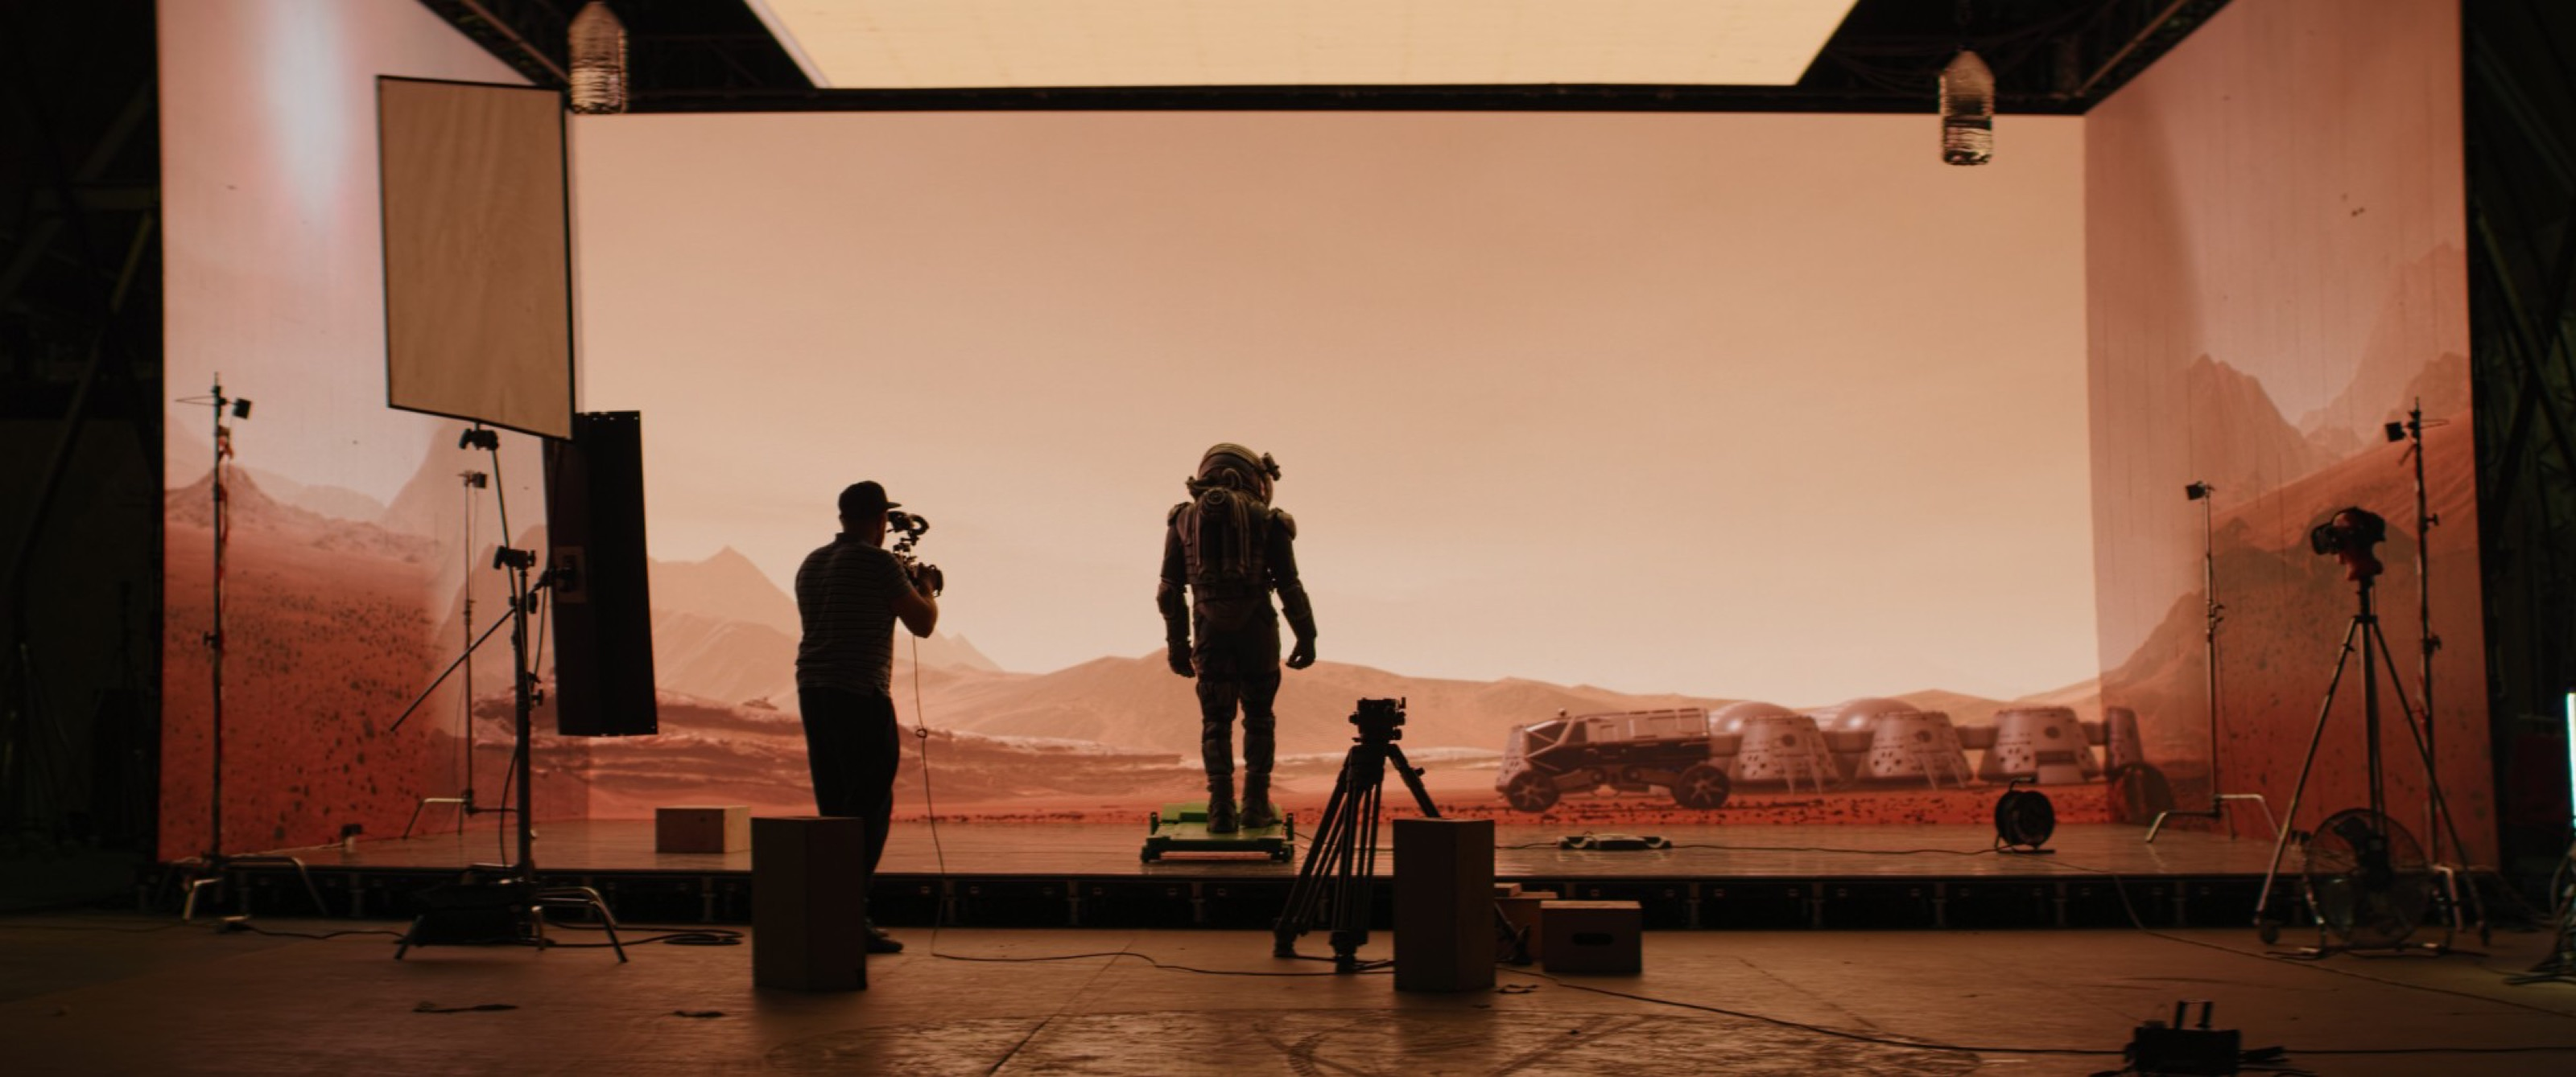
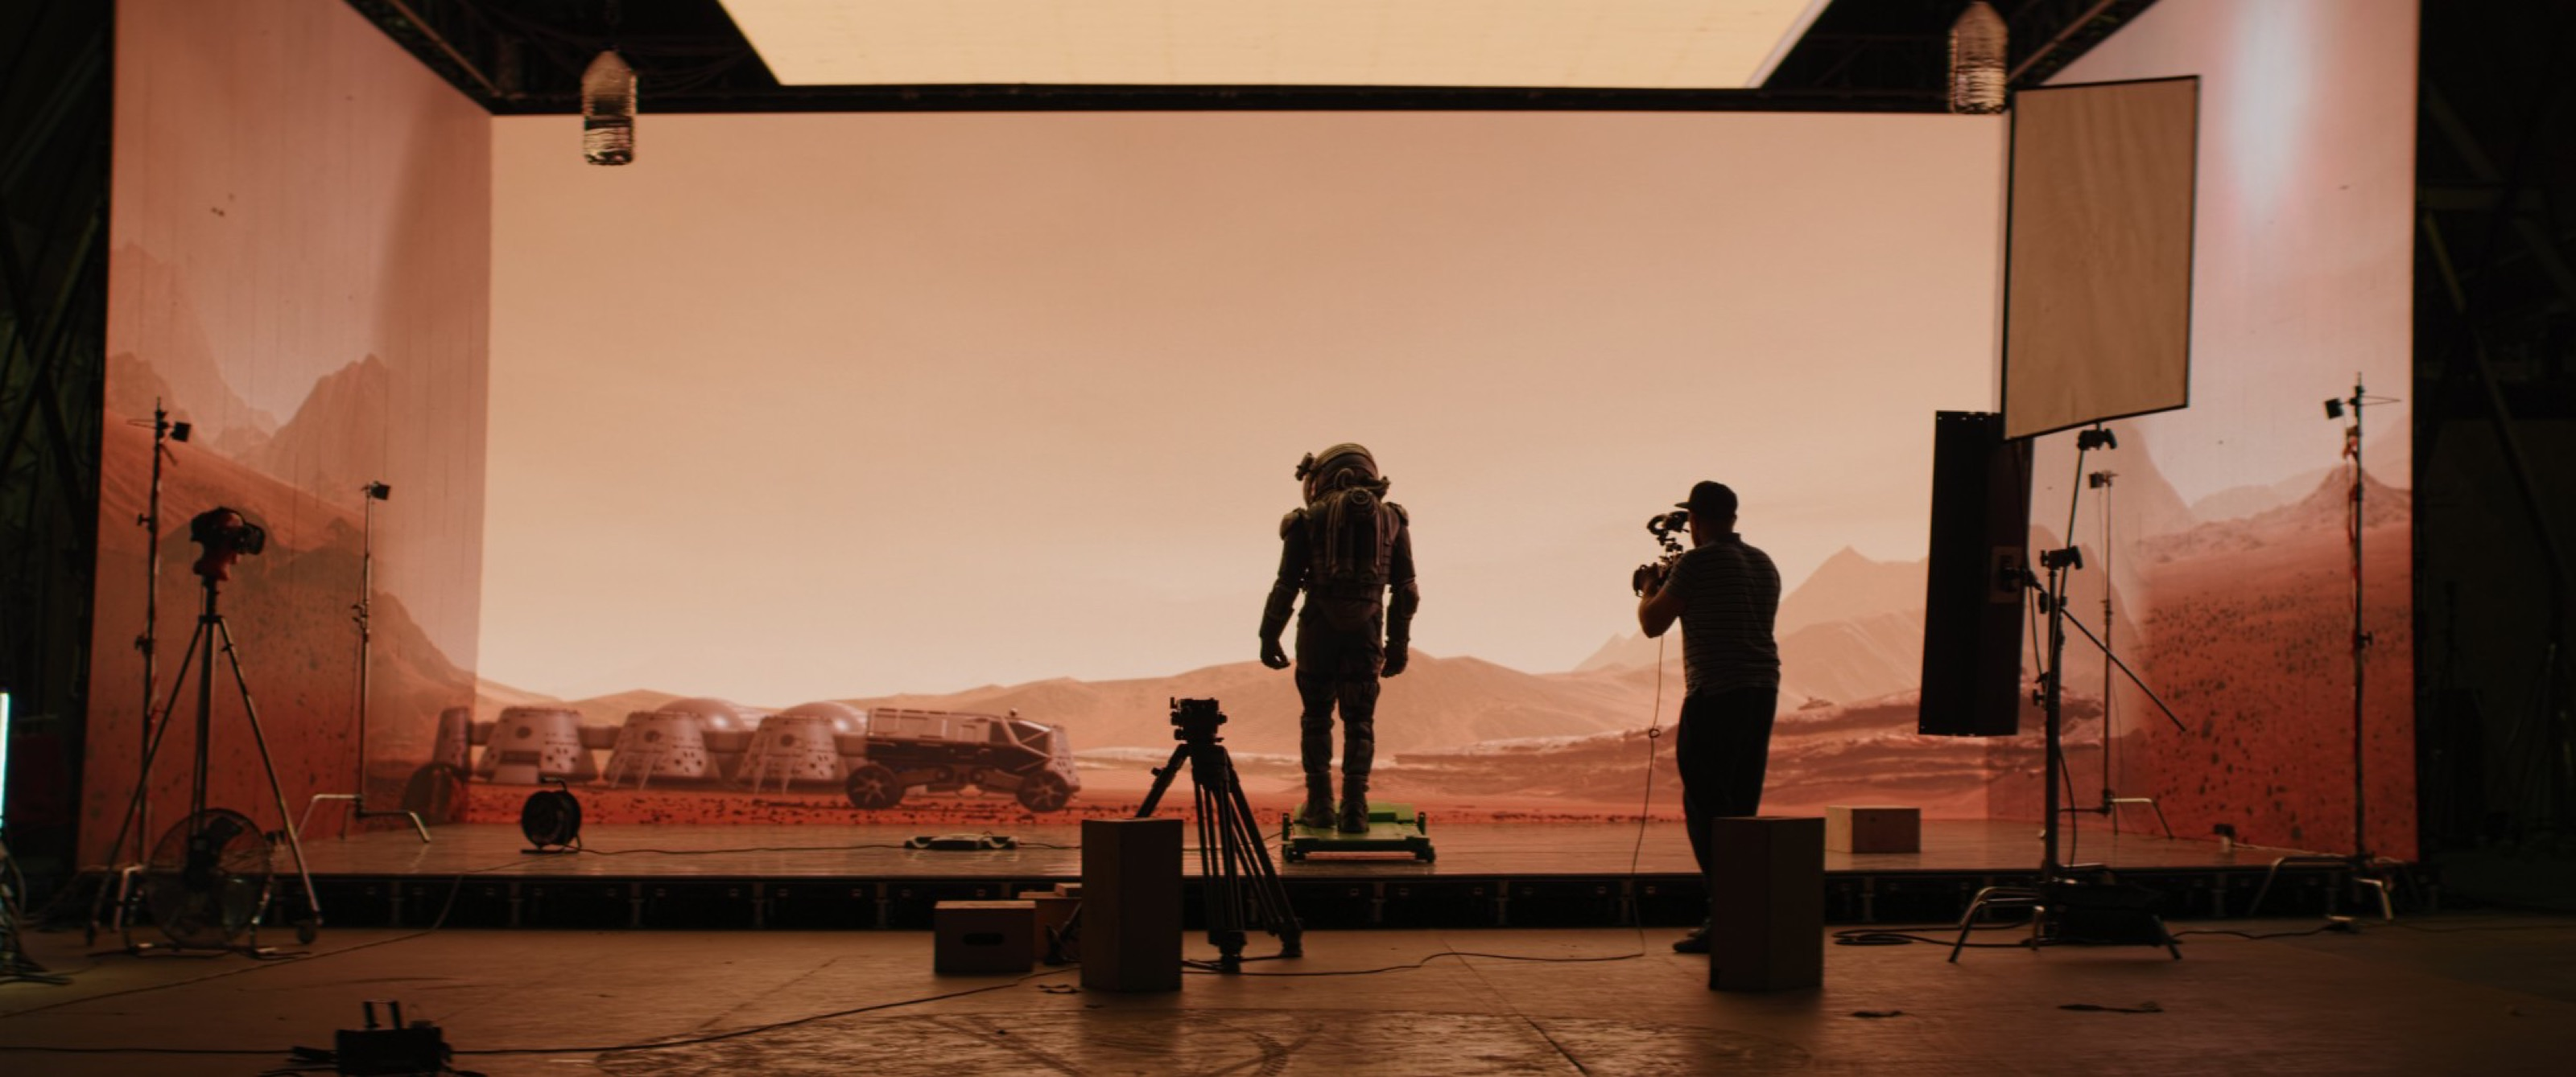
Flip the Mars sign-in photo; phone project screens follow the laptop design
Sign-in: mirror login-bg-mars.jpg horizontally (lossless JPEG flip, like the
set photo before it) and mirror its crop positions (75% -> 25% on desktop,
42% -> 58% on phone) so the same part of the photo shows.

Phone Projects list: each project is a folder card like the laptop's. Status
pill and shoot date, the name in spaced caps, client and location, a big
orange item count (with a unique count when it differs), a 5-column grid of
white thumbnail tiles split by 1px black rules, and a Kit list / Open footer.
The dot texture is on these cards only.

Phone project page: ink header with the title, fact grid (client, shoot,
location, orange Items and Unique) and full-width status blocks, as on the
laptop. The kit list, steppers, Add gear and Delete are unchanged.

diff --git a/studio-mobile.jsx b/studio-mobile.jsx
@@ -371,6 +371,64 @@
   }
 
   // ─── Projects ───────────────────────────────────────────────────────
+  // One project as a folder card, same as the laptop: status and shoot date,
+  // the name in spaced caps, a big orange item count, then a grid of white
+  // thumbnail tiles split by 1px black rules. The dot texture is on these
+  // cards only.
+  function ProjectFolder({ p, rows, onOpen }) {
+    const loaded = !!rows;
+    const list = rows || [];
+    const qty = totalQty(list);
+    const n = list.length;
+    const cells = n > 10 ? 15 : 10;
+    const cap = n > cells ? cells - 1 : cells;
+    const tag = p.status === 'active'
+      ? { background: T.orange, color: '#fff', border: `1px solid ${T.orange}` }
+      : { background: 'rgba(255,255,255,0.12)', color: '#fff', border: '1px solid rgba(255,255,255,0.28)' };
+    const meta = [p.client, p.location].filter(Boolean).join(' · ');
+    const tiles = [];
+    for (let i = 0; i < cells; i++) {
+      const pi = list[i];
+      if (i < cap && pi) {
+        tiles.push(
+          <div key={pi.id || i} style={folderTile}>
+            <img src={window.GEAR.itemImage(pi)} loading="lazy" alt=""
+              onError={(e) => { e.currentTarget.src = window.GEAR_PLACEHOLDER(pi.category); }}
+              style={{ position: 'absolute', inset: 4, width: 'calc(100% - 8px)', height: 'calc(100% - 8px)', objectFit: 'contain' }} />
+            {pi.qty > 1 && <div style={{ position: 'absolute', bottom: 0, right: 0, background: T.orange, color: '#fff', fontSize: 10, padding: '1px 5px', fontFamily: S.mono }}>{pi.qty}</div>}
+          </div>
+        );
+      } else if (i === cells - 1 && n > cells) {
+        tiles.push(<div key="more" style={{ ...folderTile, background: T.paperLight, display: 'flex', alignItems: 'center', justifyContent: 'center', fontFamily: S.mono, fontSize: 13, color: T.textMute }}>+{n - cap}</div>);
+      } else {
+        tiles.push(<div key={'e' + i} style={{ ...folderTile, background: '#000' }} />);
+      }
+    }
+    return (
+      <div onClick={onOpen} role="button" tabIndex={0} aria-label={`Open ${p.name}`}
+           onKeyDown={(e) => { if (e.key === 'Enter' || e.key === ' ') { e.preventDefault(); onOpen(); } }}
+           style={folderCard}>
+        <div style={{ padding: '14px 14px 14px' }}>
+          <div style={{ display: 'flex', alignItems: 'center', justifyContent: 'space-between', gap: 10 }}>
+            <span style={{ ...S.pill('transparent', '#fff'), ...tag }}>{p.status}</span>
+            {p.shoot && <span style={{ fontFamily: S.mono, fontSize: 10, letterSpacing: '0.1em', textTransform: 'uppercase', color: 'rgba(255,255,255,0.5)', textAlign: 'right' }}>{p.shoot}</span>}
+          </div>
+          <div style={{ fontFamily: S.mono, fontSize: 14, letterSpacing: '0.14em', textTransform: 'uppercase', lineHeight: 1.35, marginTop: 12, color: 'rgba(255,255,255,0.88)', wordBreak: 'break-word' }}>{p.name}</div>
+          {meta && <div style={{ fontSize: 12.5, color: 'rgba(255,255,255,0.5)', marginTop: 2 }}>{meta}</div>}
+          <div style={{ display: 'flex', alignItems: 'baseline', gap: 10, marginTop: 10, fontFamily: S.mono }}>
+            <span style={{ fontSize: 40, lineHeight: 1, color: T.orange }}>{loaded ? qty : '…'}</span>
+            <span style={{ fontSize: 12, letterSpacing: '0.14em', textTransform: 'uppercase', color: 'rgba(255,255,255,0.6)' }}>Item{qty === 1 ? '' : 's'}</span>
+            {loaded && n !== qty && <span style={{ marginLeft: 'auto', fontSize: 10, letterSpacing: '0.1em', textTransform: 'uppercase', color: 'rgba(255,255,255,0.4)' }}>{n} unique</span>}
+          </div>
+        </div>
+        <div style={{ display: 'grid', gridTemplateColumns: 'repeat(5, 1fr)', gap: 1, background: '#000', borderTop: '1px solid #000', borderBottom: '1px solid #000' }}>{tiles}</div>
+        <div style={{ display: 'flex', alignItems: 'center', justifyContent: 'space-between', height: 34, padding: '0 14px', fontFamily: S.mono, fontSize: 10, letterSpacing: '0.1em', textTransform: 'uppercase', color: '#8a827b' }}>
+          <span>Kit list</span><span>Open ›</span>
+        </div>
+      </div>
+    );
+  }
+
   function ProjectsScreen({ projects, projectItems, billing, onOpen, onNew }) {
     const limit = billing && billing.max_projects != null ? billing.max_projects : null;
     return (
@@ -386,29 +444,8 @@
             <button style={{ ...S.btnP, padding: 12 }} onClick={onNew}>Create a project</button>
           </Empty>
         ) : (
-          <div style={{ display: 'flex', flexDirection: 'column', gap: 8, padding: '0 10px 16px' }}>
-            {projects.map(p => {
-              const rows = projectItems[p.id];
-              const c = window.GEAR.statusColor[p.status] || window.GEAR.statusColor.planning;
-              return (
-                <div key={p.id} onClick={() => onOpen(p.id)} style={{ background: '#fff', border: `1px solid ${T.ink}`, padding: 12, cursor: 'pointer' }}>
-                  <div style={{ display: 'flex', justifyContent: 'space-between', alignItems: 'center', gap: 10, marginBottom: 8 }}>
-                    <span style={S.pill(c.bg, c.fg)}>{p.status}</span>
-                    <span style={{ fontFamily: S.mono, fontSize: 11, color: T.textMute }}>{rows ? `${totalQty(rows)} item${totalQty(rows) === 1 ? '' : 's'}` : '…'}</span>
-                  </div>
-                  <div style={{ fontFamily: S.mono, fontSize: 19, fontWeight: 600, letterSpacing: '-0.02em', lineHeight: 1.2, wordBreak: 'break-word' }}>{p.name}</div>
-                  {[p.client, p.shoot, p.location].some(Boolean) && (
-                    <div style={{ fontSize: 12, color: T.textMute, marginTop: 4 }}>{[p.client, p.shoot, p.location].filter(Boolean).join(' · ')}</div>
-                  )}
-                  {rows && rows.length > 0 && (
-                    <div style={{ display: 'flex', gap: 4, marginTop: 12 }}>
-                      {rows.slice(0, 6).map(pi => <Thumb key={pi.id} it={pi} size={40} />)}
-                      {rows.length > 6 && <div style={{ ...qtyChip, alignSelf: 'center', marginLeft: 2 }}>+{rows.length - 6}</div>}
-                    </div>
-                  )}
-                </div>
-              );
-            })}
+          <div style={{ display: 'flex', flexDirection: 'column', gap: 12, padding: '0 10px 16px' }}>
+            {projects.map(p => <ProjectFolder key={p.id} p={p} rows={projectItems[p.id]} onOpen={() => onOpen(p.id)} />)}
           </div>
         )}
       </div>
@@ -436,27 +473,30 @@
     return (
       <div style={{ flex: 1, minHeight: 0, display: 'flex', flexDirection: 'column' }}>
         <div className="gm-scroll" style={{ flex: 1, minHeight: 0 }}>
-          <div style={{ background: '#fff', borderBottom: `1px solid ${T.ink}` }}>
-            <div onClick={rename} style={{ padding: '12px 12px 10px', fontFamily: S.mono, fontSize: 24, letterSpacing: '0.01em', lineHeight: 1.1, wordBreak: 'break-word', cursor: 'pointer' }}>
-              {project.name} <span style={{ fontSize: 14, color: T.textMute }}>✎</span>
+          {/* Ink header like the laptop: title, the shoot facts as a grid, then status blocks */}
+          <div style={{ background: T.ink, color: '#fff' }}>
+            <div onClick={rename} role="button" aria-label="Rename project" style={{ display: 'flex', alignItems: 'center', gap: 10, padding: '14px 14px', cursor: 'pointer' }}>
+              <div style={{ flex: 1, minWidth: 0, fontFamily: S.mono, fontSize: 26, letterSpacing: '0.01em', lineHeight: 1.1, wordBreak: 'break-word' }}>{project.name}</div>
+              <span aria-hidden="true" style={{ color: T.orange, fontSize: 16, flexShrink: 0 }}>✎</span>
             </div>
-            <div style={{ display: 'flex', margin: '0 12px 12px', border: `1px solid ${T.ink}` }}>
+            <div style={{ display: 'grid', gridTemplateColumns: '1fr 1fr', borderTop: '1px solid #000' }}>
+              {[['Client', project.client], ['Shoot', project.shoot]].map(([k, v], i) => (
+                <div key={k} style={{ ...darkCell, borderRight: i === 0 ? '1px solid #333' : 'none' }}><div style={darkKey}>{k}</div><div style={darkVal}>{v || '—'}</div></div>
+              ))}
+              <div style={{ ...darkCell, gridColumn: 'span 2' }}><div style={darkKey}>Location</div><div style={darkVal}>{project.location || '—'}</div></div>
+              <div style={{ ...darkCell, borderRight: '1px solid #333', borderBottom: 'none' }}><div style={darkKey}>Items</div><div style={{ ...darkVal, fontSize: 20, color: T.orange }}>{totalQty(list)}</div></div>
+              <div style={{ ...darkCell, borderBottom: 'none' }}><div style={darkKey}>Unique</div><div style={{ ...darkVal, fontSize: 20, color: T.orange }}>{list.length}</div></div>
+            </div>
+            <div style={{ display: 'flex', height: 40, borderTop: '1px solid #000' }} role="group" aria-label="Project status">
               {['planning', 'active', 'wrapped'].map((st, i) => {
                 const on = project.status === st;
                 return (
-                  <button key={st} onClick={() => onStatus(st)} style={{ flex: 1, height: 36, border: 'none', borderLeft: i ? `1px solid ${T.ink}` : 'none', background: on ? T.orange : '#fff', color: on ? '#fff' : T.textMute, fontFamily: S.mono, fontSize: 11, letterSpacing: '0.06em', textTransform: 'uppercase', cursor: 'pointer' }}>
+                  <button key={st} onClick={() => onStatus(st)} aria-pressed={on}
+                    style={{ flex: 1, border: 'none', borderRight: i < 2 ? '1px solid #000' : 'none', background: on ? T.orange : '#242424', color: on ? '#fff' : '#8a827b', fontFamily: S.mono, fontSize: 11, letterSpacing: '0.08em', textTransform: 'uppercase', cursor: 'pointer' }}>
                     {st}
                   </button>
                 );
               })}
-            </div>
-            <div style={{ display: 'grid', gridTemplateColumns: '1fr 1fr', borderTop: `1px solid ${T.ink}` }}>
-              {[['Client', project.client], ['Shoot', project.shoot]].map(([k, v]) => (
-                <div key={k} style={{ ...factCell, borderRight: k === 'Client' ? `1px solid ${T.ink}` : 'none' }}><div style={factKey}>{k}</div><div style={factVal}>{v || '—'}</div></div>
-              ))}
-              <div style={{ ...factCell, gridColumn: 'span 2' }}><div style={factKey}>Location</div><div style={factVal}>{project.location || '—'}</div></div>
-              <div style={{ ...factCell, borderRight: `1px solid ${T.ink}`, borderBottom: 'none' }}><div style={factKey}>Items</div><div style={{ ...factVal, fontSize: 20, color: T.orange }}>{totalQty(list)}</div></div>
-              <div style={{ ...factCell, borderBottom: 'none' }}><div style={factKey}>Unique</div><div style={{ ...factVal, fontSize: 20, color: T.orange }}>{list.length}</div></div>
             </div>
           </div>
 
@@ -785,6 +825,13 @@
   const rowSub = { fontSize: 9, fontFamily: S.mono, color: T.textMute, textTransform: 'uppercase', letterSpacing: '0.08em', marginTop: 3 };
   const qtyChip = { fontFamily: S.mono, fontSize: 12, color: T.textMute, flexShrink: 0, whiteSpace: 'nowrap' };
   const stepBtn = { width: 34, height: 34, background: 'none', border: 'none', fontSize: 18, color: T.ink, cursor: 'pointer' };
+  // Project folder card: ink with the dot texture (project cards only) and white thumbnail tiles.
+  const folderCard = { background: `${T.ink} radial-gradient(circle, rgba(255,255,255,0.14) 1px, transparent 1.2px) 0 0 / 22px 22px`, color: '#fff', border: `1px solid ${T.ink}`, cursor: 'pointer' };
+  const folderTile = { position: 'relative', aspectRatio: '1 / 1', background: '#fff', overflow: 'hidden' };
+  // Ink fact cells for the project header (labels dim, values white).
+  const darkCell = { padding: '8px 14px', borderBottom: '1px solid #333', minWidth: 0 };
+  const darkKey = { fontFamily: S.mono, fontSize: 9, letterSpacing: '0.12em', color: '#8a827b', textTransform: 'uppercase' };
+  const darkVal = { fontFamily: S.mono, fontSize: 13, marginTop: 2, color: '#fff', overflow: 'hidden', textOverflow: 'ellipsis', whiteSpace: 'nowrap' };
   const factCell = { padding: '7px 12px', borderBottom: `1px solid ${T.ink}`, minWidth: 0 };
   const factKey = { fontFamily: S.mono, fontSize: 9, letterSpacing: '0.12em', color: T.textMute, textTransform: 'uppercase' };
   const factVal = { fontFamily: S.mono, fontSize: 13, marginTop: 2, overflow: 'hidden', textOverflow: 'ellipsis', whiteSpace: 'nowrap' };

diff --git a/studio-auth.jsx b/studio-auth.jsx
@@ -25,7 +25,8 @@
   // and dissolves into black through a radial mask. `pos` is the background
   // position (desktop / phone) that keeps each photo's subject in view.
   const LOGIN_BACKDROPS = [
-    { src: 'login-bg-mars.jpg', pos: { desk: '75% 0', phone: '42% 0' } },
+    // Mars is mirrored in the file, so its crop positions are mirrored too (was 75% / 42%).
+    { src: 'login-bg-mars.jpg', pos: { desk: '25% 0', phone: '58% 0' } },
     { src: 'login-bg-set.jpg',  pos: { desk: '70% 0', phone: '50% 0' } },
   ];
   const BACKDROP_MS = 30000;
